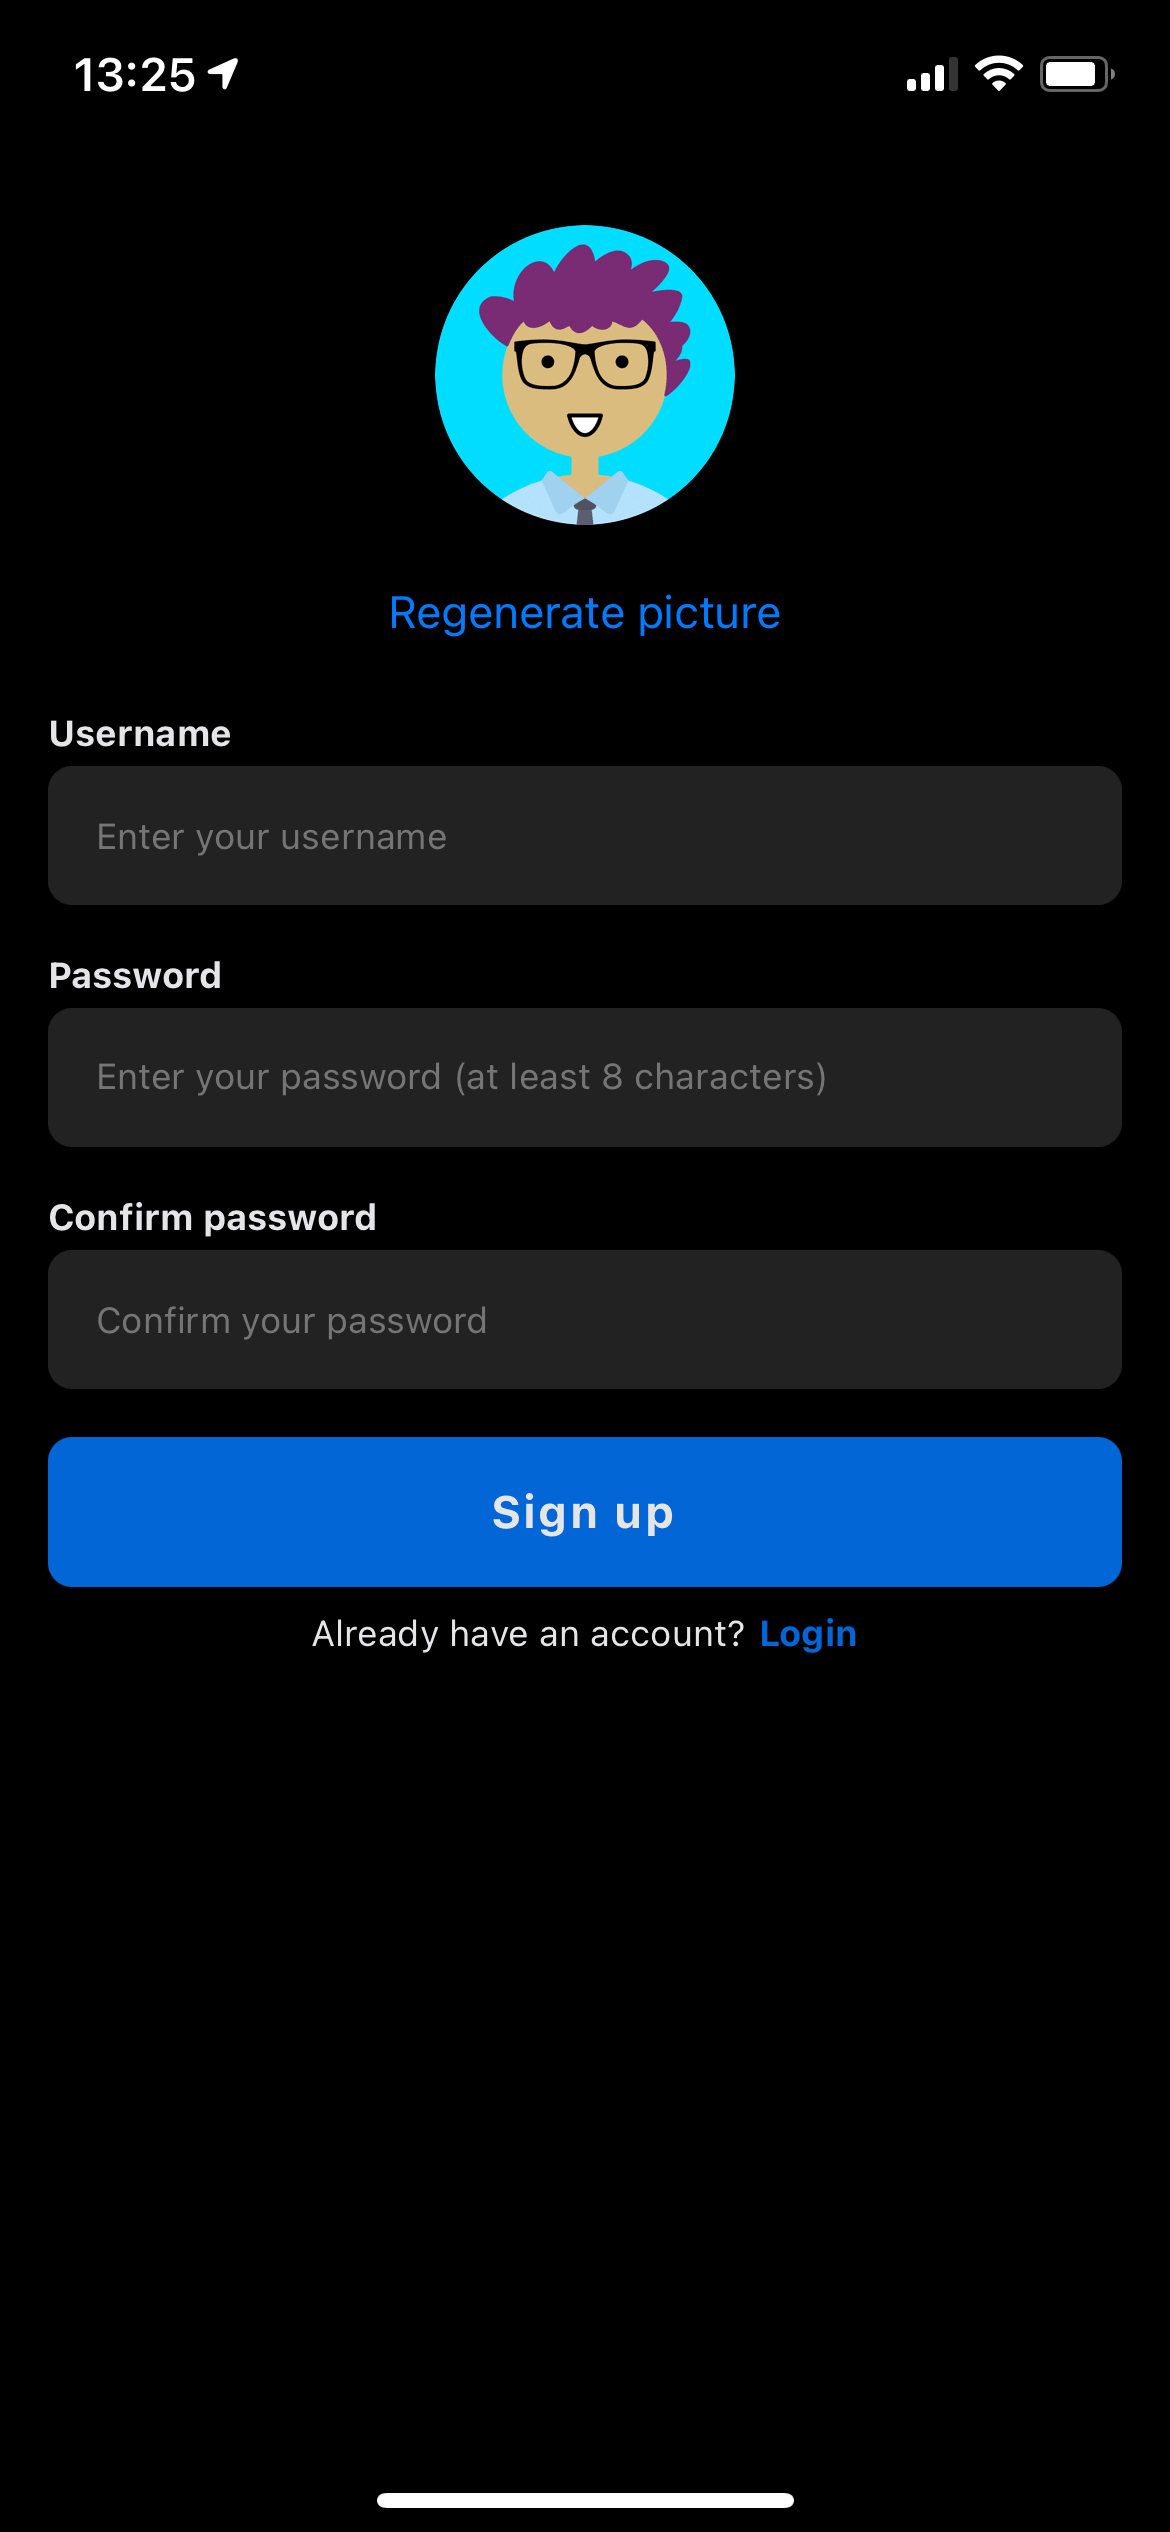
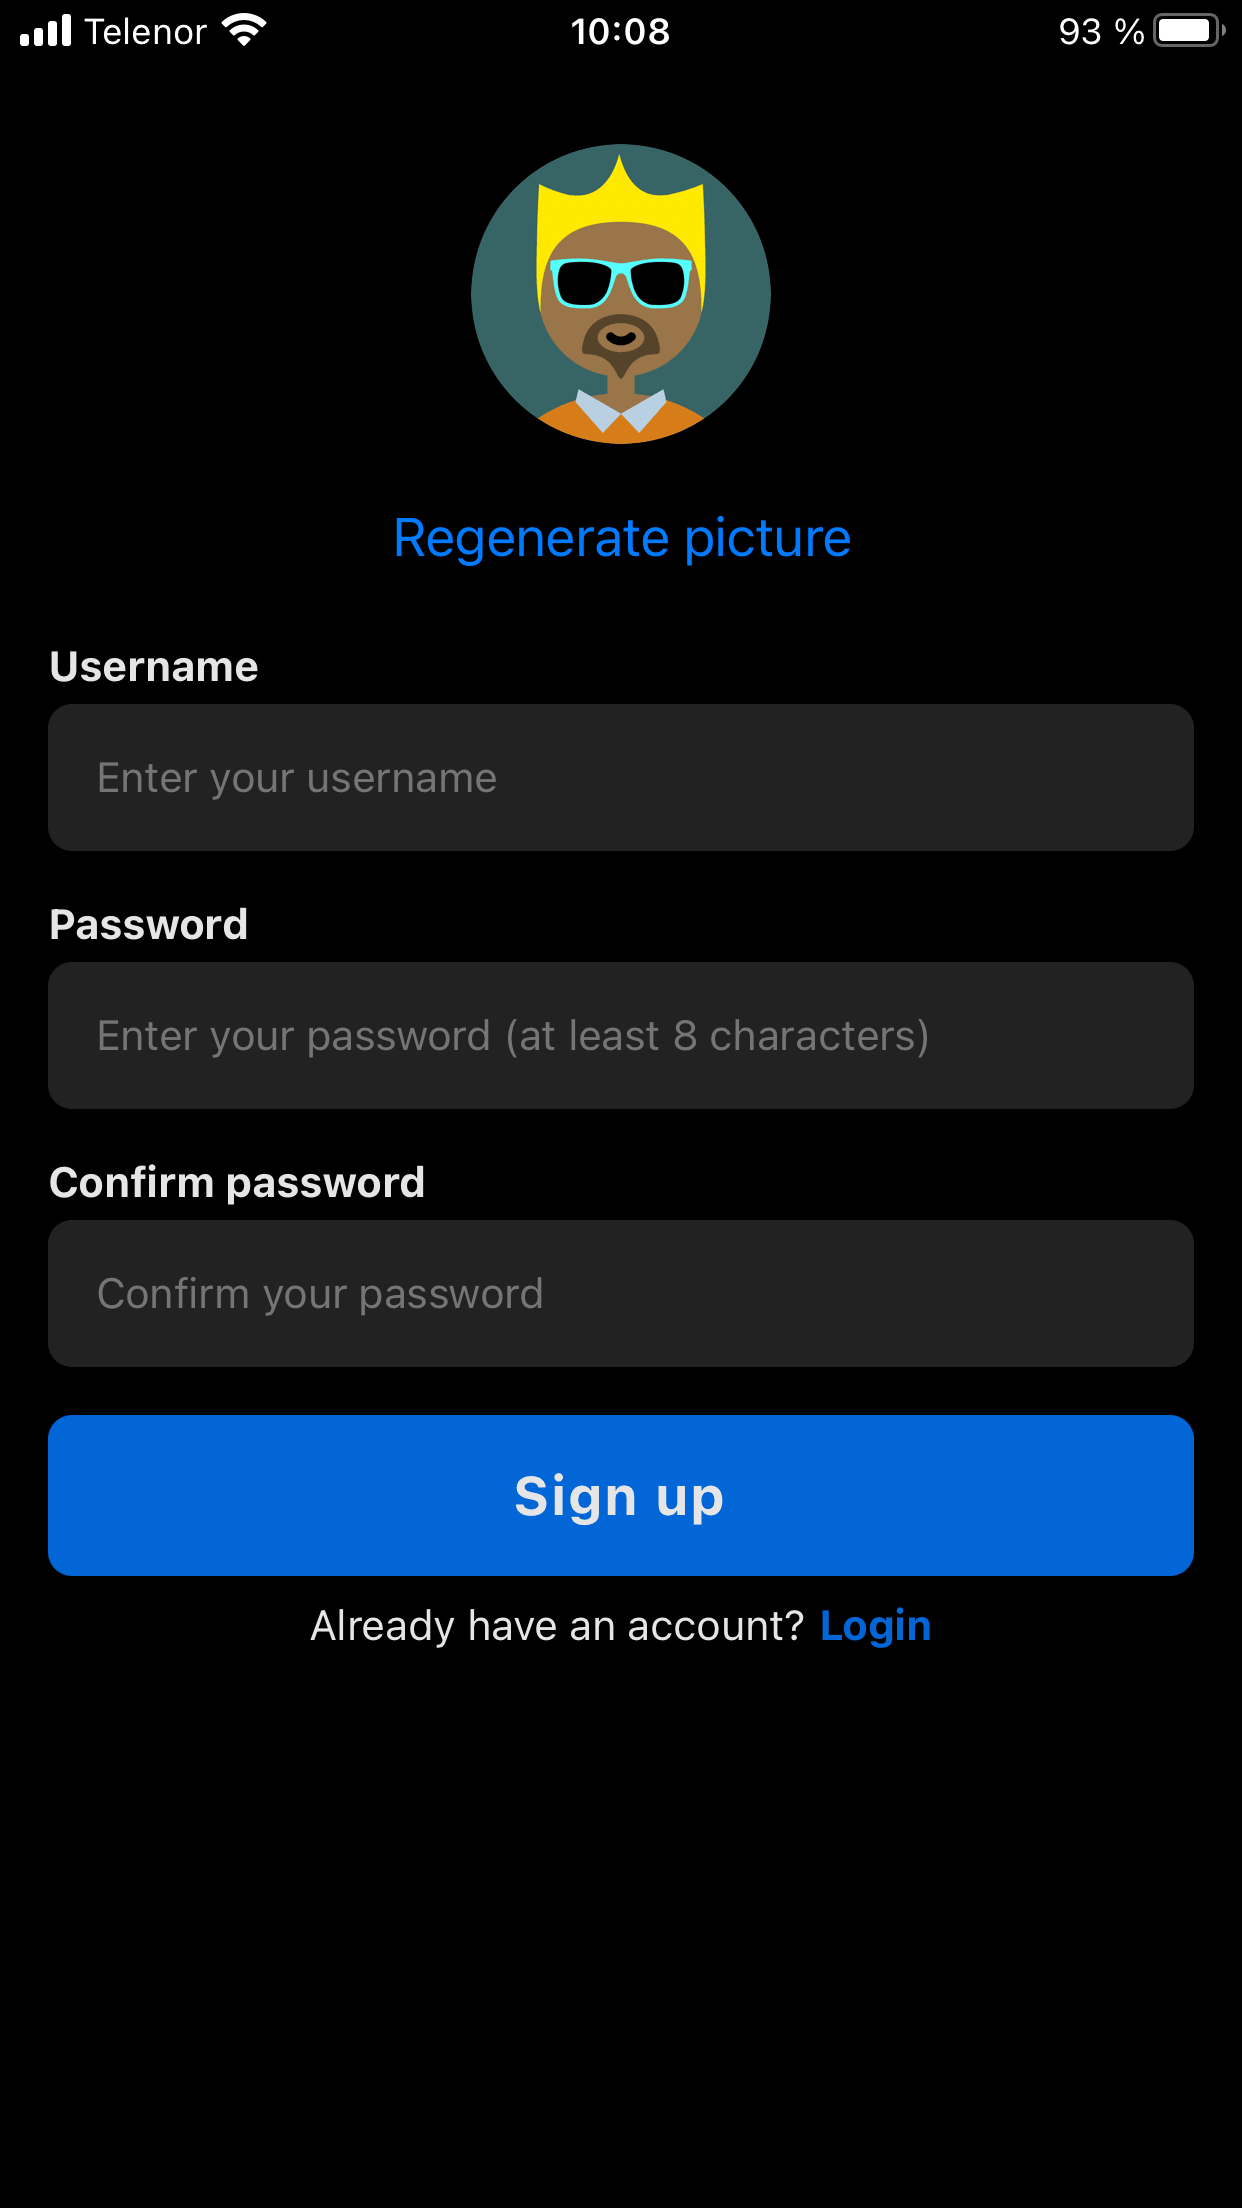
Updates from Overleaf

diff --git a/Parts/3Hover/15FunctionalRequirements.tex b/Parts/3Hover/15FunctionalRequirements.tex
@@ -4,58 +4,55 @@ To organize and prioritize features in Hover, we have created three sets of func
 
 \subsection{High Priority FRs}
 High-priority Functional Requirements are needed for the game to function as intended. Consequently, the requirements in Table \ref{tab:FR_high} are the ones that we categorize as a must-have in the application before testing it on real users. Thus, all eight high-priority FRs are implemented in Hover.
-\begin{table}[h!]
-\resizebox{\textwidth}{!}{%
-\begin{tabular}{|l|l|}
-\hline
-\textbf{FR \#} & \textbf{Functional requirement}                                             \\ \hline
-\textbf{FR1} & The user should be able to create an account and log in.                      \\
-\textbf{FR2} & The user should be able to view and explore hover zones (i.e., geofences).    \\
-\textbf{FR3} & The user should be able to track and publish activities.                      \\
-\textbf{FR4} & The user should be able to challenge friends.                                 \\
-\textbf{FR5} & \begin{tabular}[c]{@{}l@{}}The user should be able to view friends’ activities, earned achievements,\\ and completed challenges.\end{tabular} \\
-\textbf{FR6} & The user should be able to compare their score with friends on a leaderboard. \\
-\textbf{FR7} & The user should be able to earn achievements for completing predefined tasks. \\
-\textbf{FR8} & The user should be able to increase an activity score by socializing.         \\ \hline
-\end{tabular}%
-}
-\caption{High priority functional requirements.}
-\label{tab:FR_high}
+\begin{table}[H]
+    \centering
+    \begin{tabularx}{0.95\textwidth}{|c|X|}
+    \hline
+        \textbf{\#} & \multicolumn{1}{c|}{\textbf{Functional Requirement}} \\ \hline
+        \textbf{FR1} & The user should be able to create an account and log in. \\
+        \textbf{FR2} & The user should be able to view and explore hover zones (i.e., geofences). \\
+        \textbf{FR3} & The user should be able to track and publish activities.\\
+        \textbf{FR4} & The user should be able to participate in challenges, create challenges, and see challenge progress. \\
+        \textbf{FR5} & The user should be able to view friends’ activities, earned achievements, and completed challenges.\\
+        \textbf{FR6} & The user should be able to compare their score with friends on a leaderboard. \\
+        \textbf{FR7} & The user should be able to earn achievements for completing predefined tasks. \\
+        \textbf{FR8} & The user should be able to increase an activity score by socializing. \\ \hline
+    \end{tabularx}
+    \caption{High priority functional requirements.}
+    \label{tab:FR_high}
 \end{table}
 
 \subsection{Medium Priority FRs}
 Medium priority FRs are requirements that should be implemented if we have time. They improve the game experience but are not crucial for the game to function as intended. Three of the medium priority FRs in Table \ref{tab:FR_medium}, FR9, FR10, and FR11, have been implemented.
 
 \begin{table}[H]
-\resizebox{\textwidth}{!}{%
-\begin{tabular}{|l|l|}
-\hline
-\textbf{FR \#} & \textbf{Functional requirement}                                                     \\ \hline
-\textbf{FR9}  & The user should get notifications of important events.                               \\
-\textbf{FR10} & The user should be able to create a custom profile and visit their friend’s profile. \\
-\textbf{FR11} & \begin{tabular}[c]{@{}l@{}}The user should be able to interact with friends’ activities, earned achievements, \\ and completed challenges.\end{tabular} \\
-\textbf{FR12} & The user should be able to customize their list of friends.                          \\ \hline
-\end{tabular}%
-}
-\caption{Medium priority functional requirements.}
-\label{tab:FR_medium}
+    \centering
+    \begin{tabularx}{0.95\textwidth}{|c|X|}
+        \hline
+        \textbf{\#} & \multicolumn{1}{c|}{\textbf{Functional Requirement}} \\ \hline
+        \textbf{FR9} & The user should get notifications of important events. \\
+        \textbf{FR10} & The user should be able to create a custom profile and visit their friend’s profile. \\
+        \textbf{FR11} & The user should be able to interact with friends’ activities, earned achievements, and completed challenges. \\
+        \textbf{FR12} & The user should be able to customize their list of friends. \\ \hline
+    \end{tabularx}
+    \caption{Medium priority functional requirements.}
+    \label{tab:FR_medium}
 \end{table}
 
 \subsection{Low Priority FRs}
 Low priority functional requirements are nice to have features. They could improve the game, but not in a dramatic way. In this project, the requirements categorized with low priority have not been implemented (see Table \ref{tab:FR_low}). However, they serve as good suggestions for further work, as we will describe later in Chapter \ref{chap:further_work}. 
 
-\begin{table}[h!]
-\resizebox{\textwidth}{!}{%
-\begin{tabular}{|l|l|}
-\hline
-\textbf{FR \#} & \textbf{Functional requirement}                                                            \\ \hline
-\textbf{FR13} & The user should be able to earn real-world awards.                                          \\
-\textbf{FR14} & The user should be able to evolve a character based on their score.                         \\
-\textbf{FR15} & The user should be able to log in using external services, Facebook, Google, Contacts, etc. \\ \hline
-\end{tabular}%
-}
-\caption{Low priority functional requirements.}
-\label{tab:FR_low}
+\begin{table}[H]
+    \centering
+    \begin{tabularx}{0.95\textwidth}{|c|X|}
+        \hline
+        \textbf{\#} & \multicolumn{1}{c|}{\textbf{Functional Requirement}} \\ \hline
+        \textbf{FR13} & The user should be able to earn real-world awards.\\
+        \textbf{FR14} & The user should be able to evolve a character based on their score. \\
+        \textbf{FR15} & The user should be able to log in using external services, Facebook, Google, Contacts, etc.\\ \hline
+    \end{tabularx}
+    \caption{Low priority functional requirements.}
+    \label{tab:FR_low}
 \end{table}
 
 \subsection{Summary}

diff --git a/Parts/3Hover/19GameDesign.tex b/Parts/3Hover/19GameDesign.tex
@@ -75,14 +75,13 @@ The balance between player experience and difficulty is incorporated in the achi
 The three rewards systems in Hover facilitate three ways of advancing, as compared in Table \ref{tab:rewardsystems_balance}. The point system lets the player climb the leaderboard; however, points are partly volatile and non-volatile. The streak system is volatile and requires a committed and consistent player. And the achievement system is non-volatile. The balance between volatile and non-volatile rewards ensures that the player always has something to fall back on when returning to the game.
 
 \begin{table}[H]
-    \resizebox{\textwidth}{!}{%
-    \begin{tabular}{|>{\columncolor[HTML]{A4C2F4}}l |l|l|} \hline
-    & \cellcolor[HTML]{A4C2F4}\textbf{Volatile reward} & \cellcolor[HTML]{A4C2F4}\textbf{Non-volatile reward} \\ \hline
-    \textbf{Point system} & \begin{tabular}[c]{@{}l@{}}Leaderboard focuses on the \\ Last 7 days, and points are out \\ of focus after a week.\end{tabular} & \begin{tabular}[c]{@{}l@{}}The player’s all-time points \\ are shown on their profile.\\ Players can filter on pre-defined \\ time intervals to find previous \\ scores on the leaderboard.\end{tabular} \\ \hline
-    \textbf{Streak system} & \begin{tabular}[c]{@{}l@{}}Streaks are lost if a player \\ goes a day without hovering.\end{tabular} &  \\ \hline
-    \textbf{Achievement system} &  & \begin{tabular}[c]{@{}l@{}}Once acquired, the player has\\ permanently earned the achievement.\end{tabular} \\ \hline
-    \end{tabular}%
-    }
+    \centering
+        \begin{tabularx}{\textwidth}{|l|X|X|} \hline
+        \cellcolor[HTML]{A4C2F4} & \cellcolor[HTML]{A4C2F4}\textbf{Volatile reward} & \cellcolor[HTML]{A4C2F4}\textbf{Non-volatile reward} \\ \hline
+        \cellcolor[HTML]{A4C2F4}\textbf{Point system} & Leaderboard focuses on the \textit{Last 7 days}, and points are out  of focus after a week. & The player’s all-time points  are shown on their profile. Players can filter on pre-defined time intervals to find previous  scores on the leaderboard. \\ \hline
+        \cellcolor[HTML]{A4C2F4}\textbf{Streak system} & Streaks are lost if a player goes a day without hovering. &  \\ \hline
+        \cellcolor[HTML]{A4C2F4}\textbf{Achievement system} &  & Once acquired, the player has permanently earned the achievement. \\ \hline
+    \end{tabularx}
     \caption{The three types of rewards used in Hover can be categorized as volatile and non-volatile rewards.}
     \label{tab:rewardsystems_balance}
 \end{table}

diff --git a/Parts/4Experiment/20Execution.tex b/Parts/4Experiment/20Execution.tex
@@ -13,7 +13,7 @@ Before testing Hover, a crucial consideration was which type of people we tested
 In this project, participants were picked using a non-probabilistic approach where we used convenient hand-picked participants that are likely to produce good data. Our priority was to get concise feedback from users with a behavioral pattern that could benefit from using Hover. Additionally, we picked groups of friends to test the game’s social aspect realistically. Thus we also prioritized gathering participants we knew to ensure this.
 
 \subsection{Designing the Experiment}
-The experiment was designed mainly to answer the research questions defined in Chapter \ref{chap:research_goal_and_questions}. Hence, the purpose was to test Hover on real users to get feedback on their experience using the application. We picked twenty people using a non-probabilistic approach and gathered multiple types of data (triangulation) to improve the research’s validity and reliability. Specifically, four different data types were gathered and analyzed: \textit{Questionnaire}, \textit{interviews}, \textit{in-game observations}, and \textit{application usage data}. A detailed description of the content and purpose of collecting these data types is further discussed in Chapter \ref{chap:data_collection}.
+The experiment was designed mainly to answer the research questions defined in Chapter \ref{chap:research_goal_and_questions}. Hence, the purpose was to test Hover on real users to get feedback on their experience using the application. We picked nineteen people using a non-probabilistic approach and gathered multiple types of data (triangulation) to improve the research’s validity and reliability. Specifically, four different data types were gathered and analyzed: \textit{Questionnaire}, \textit{interviews}, \textit{in-game observations}, and \textit{application usage data}. A detailed description of the content and purpose of collecting these data types is further discussed in Chapter \ref{chap:data_collection}.
 
 \subsection{Conducting the Experiment}
 The experiment took place in the two weeks between the 12th and 25th of April 2021. We wanted to test the effects Hover may have on people’s habits, and consequently, we wanted a test period that was as long as possible. Due to limited time in the Master Thesis project, we decided that two weeks would be sufficient. 

diff --git a/Parts/3Hover/17GameDevelopment.tex b/Parts/3Hover/17GameDevelopment.tex
@@ -3,12 +3,13 @@
 The first three months of working with this project were primarily dedicated to developing Hover. The following sections will explain the development process and how the software architecture was designed.
 
 \subsection{Development Process}
-\begin{wrapfigure}{r}{0.45\textwidth}
-    \vspace*{-1\baselineskip}
+\begin{wrapfigure}{r}{0.47\textwidth}
     \centering
-    \includegraphics[width=0.35\textwidth]{Images/GameDevelopment/GithubPR.png}
+    \vspace*{-0.65\baselineskip}
+    \includegraphics[width=0.45\textwidth]{Images/GameDevelopment/GithubPR.png}
     \caption{Typical pull request on Github from the development process.}
     \label{fig:github_pr}
+    \vspace*{-0.5\baselineskip}
 \end{wrapfigure}
 
 The first step in the development process was to set up code repositories, choose tools and agree on conventions. We used Git and Github as our version control system and collaboration tool. Conventions and other development information, such as setup and deployment processes, were stored in a \href{https://github.com/maattss/hover/wiki}{Wiki} in our repository on Github. To ensure that the code conventions were easy to follow, we utilized a linter in our editor and added a continuous integration check on Github. Additionally, we used pull requests and code reviews to catch errors, potential improvement possibilities and make sure both of us understood the code. Figure \ref{fig:github_pr} shows a screenshot from one of many completed pull requests during the development phase.

diff --git a/Parts/1Introduction/05ReadersGuide.tex b/Parts/1Introduction/05ReadersGuide.tex
@@ -13,17 +13,9 @@ Part \ref{part:prestudy} presents the relevant prestudy content. This part is ba
 This part is particularly useful for all readers that do not have any prior knowledge of the alternative games field. Although the part may be relevant for all, readers familiar with game design principles and alternative games may find it less relevant.
 
 \subsection*{Part \ref{part:hover} - Hover}
-Part \ref{part:hover} describes our chosen concept in more detail. The part includes a description of how the concept was selected and a more detailed description of the application. Technical details on how the game was implemented will also be described.
-
-Part III is recommended for readers interested in a more detailed concept description or how the application was implemented.
 
 \subsection*{Part \ref{part:experiment} - The Experiment}
-In Part \ref{part:experiment}, the study of Hover will be detailed. An explanation of practical details on how the research was executed and a description of which data was collected will be given. The part also touches on some reliability and validity concerns that could influence the results.
-
-Part IV is recommended reading for getting a description of how the research was conducted and is the foundation for Chapter \ref{part:results} where the results of the study will be presented.
 
 \subsection*{Part \ref{part:results} - Results}
-\textbf{[Insert]}
 
 \subsection*{Part \ref{part:discussion} - Discussion \& Conclusion}
-\textbf{[Insert]}
